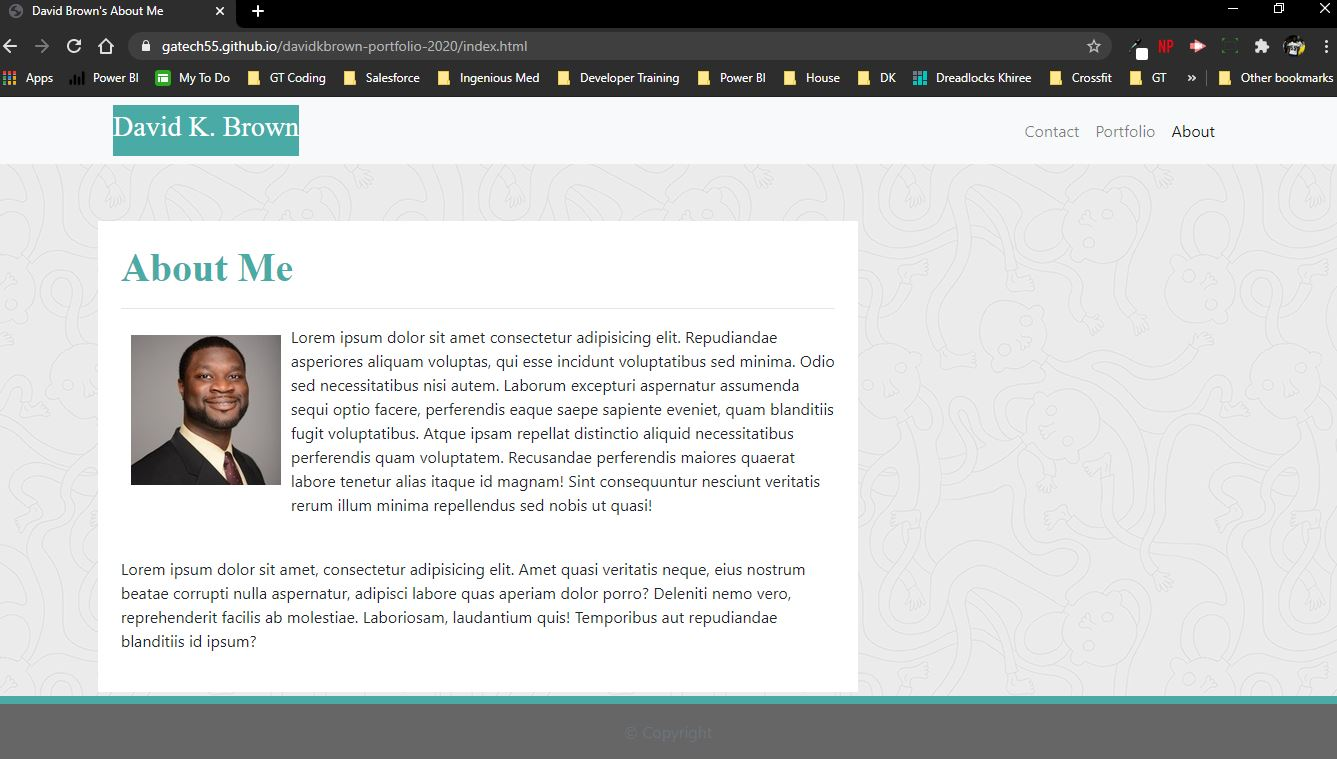
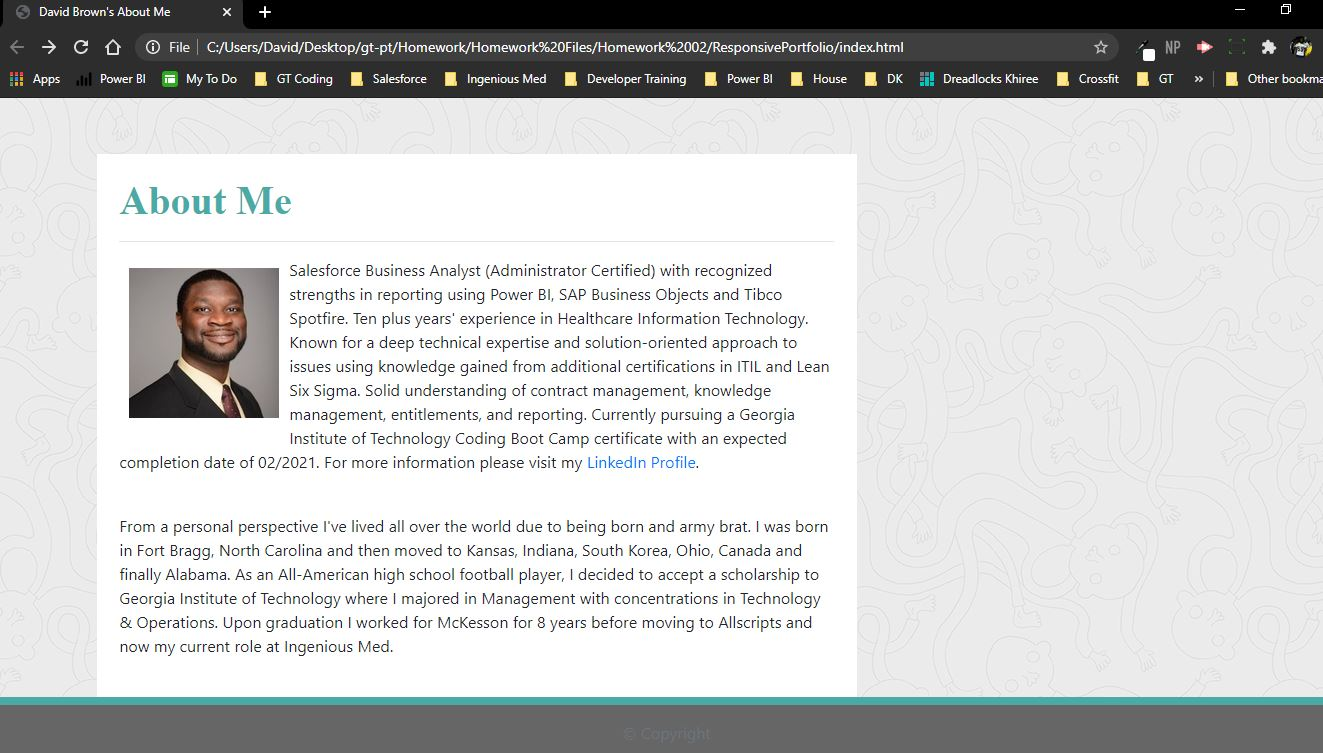
Added my personal info to the index page.

diff --git a/index.html b/index.html
@@ -86,24 +86,32 @@
               id="aboutMe"
             />
             <p class="pull-left">
-              Lorem ipsum dolor sit amet consectetur adipisicing elit.
-              Repudiandae asperiores aliquam voluptas, qui esse incidunt
-              voluptatibus sed minima. Odio sed necessitatibus nisi autem.
-              Laborum excepturi aspernatur assumenda sequi optio facere,
-              perferendis eaque saepe sapiente eveniet, quam blanditiis fugit
-              voluptatibus. Atque ipsam repellat distinctio aliquid
-              necessitatibus perferendis quam voluptatem. Recusandae perferendis
-              maiores quaerat labore tenetur alias itaque id magnam! Sint
-              consequuntur nesciunt veritatis rerum illum minima repellendus sed
-              nobis ut quasi!
+              Salesforce Business Analyst (Administrator Certified) with
+              recognized strengths in reporting using Power BI, SAP Business
+              Objects and Tibco Spotfire. Ten plus years' experience in
+              Healthcare Information Technology. Known for a deep technical
+              expertise and solution-oriented approach to issues using knowledge
+              gained from additional certifications in ITIL and Lean Six Sigma.
+              Solid understanding of contract management, knowledge management,
+              entitlements, and reporting. Currently pursuing a Georgia
+              Institute of Technology Coding Boot Camp certificate with an
+              expected completion date of 02/2021. For more information please
+              visit my
+              <a href="https://www.linkedin.com/in/gatech55/"
+                >LinkedIn Profile</a
+              >.
             </p>
             <br />
             <p>
-              Lorem ipsum dolor sit amet, consectetur adipisicing elit. Amet
-              quasi veritatis neque, eius nostrum beatae corrupti nulla
-              aspernatur, adipisci labore quas aperiam dolor porro? Deleniti
-              nemo vero, reprehenderit facilis ab molestiae. Laboriosam,
-              laudantium quis! Temporibus aut repudiandae blanditiis id ipsum?
+              From a personal perspective I've lived all over the world due to
+              being born and army brat. I was born in Fort Bragg, North Carolina
+              and then moved to Kansas, Indiana, South Korea, Ohio, Canada and
+              finally Alabama. As an All-American high school football player, I
+              decided to accept a scholarship to Georgia Institute of Technology
+              where I majored in Management with concentrations in Technology
+              &amp; Operations. Upon graduation I worked for McKesson for 8
+              years before moving to Allscripts and now my current role at
+              Ingenious Med.
             </p>
           </div>
         </div>
